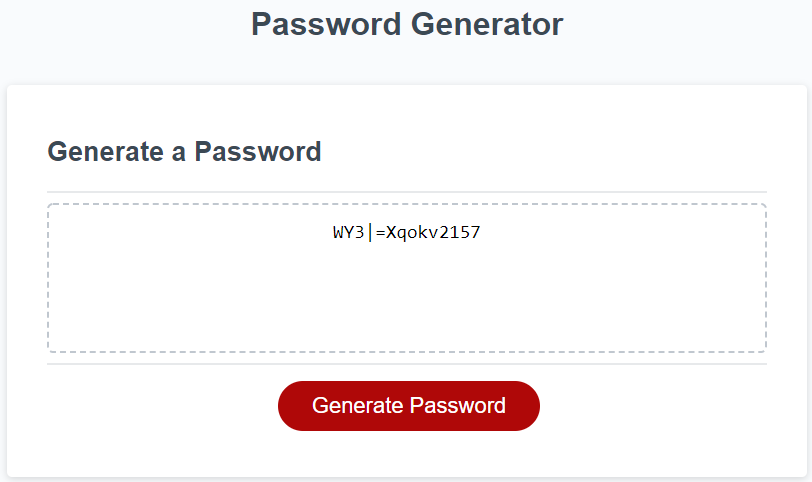
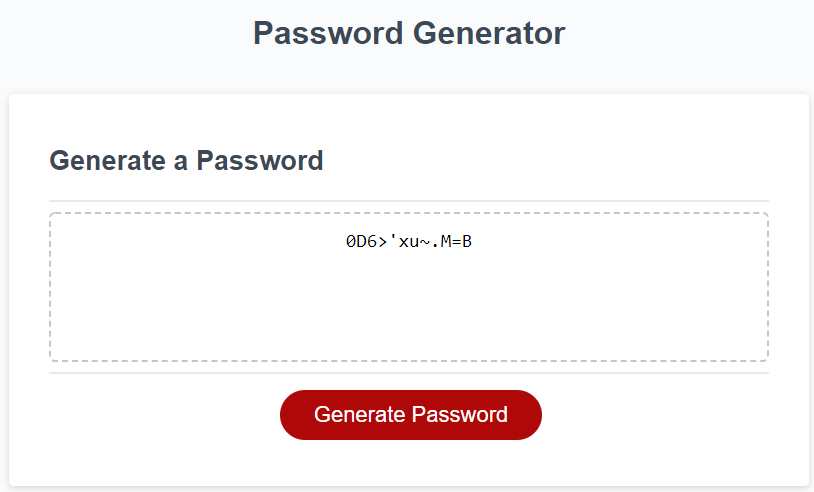
Fixing length bug and updating Readme picture

diff --git a/Develop/script.js b/Develop/script.js
@@ -48,7 +48,7 @@ function generateRandomLetter(option) {
 
 // This function returns a random special character.
 function generateRandomSpecialCharacter() {
-  var specialCharacterOptions = ["!", "@", "#", "$", "^", "&", "*", "(", ")", "_", "+", "=", "[", "]", ";", ":", "'", "\"", "\,", "<", ".", ">", "?", "/", "\\", "|", "~", "`"];
+  var specialCharacterOptions = ["!", "@", "#", "$", "^", "&", "*", "(", ")", "_", "+", "=", "[", "]", ";", ":", "'", "\"", "<", ".", ">", "?", "/", "\\", "|", "~", "`"];
   var randomNumber = Math.floor(Math.random() * (specialCharacterOptions.length-1));
   return specialCharacterOptions[randomNumber];
 }
@@ -56,7 +56,7 @@ function generateRandomSpecialCharacter() {
 // This function returns a random set of characters.
 function generatePasswordBasedOnOptions(n, upper, lower, special, number) {
   var randomPasswordArray = [];
-  while (randomPasswordArray.length -1 <= n) {
+  while (randomPasswordArray.length < n) {
     var randomNumber = Math.floor(Math.random() * 5);
     if (randomNumber != 5) {
       if (randomNumber == 0 && upper == true && lower == true) {
